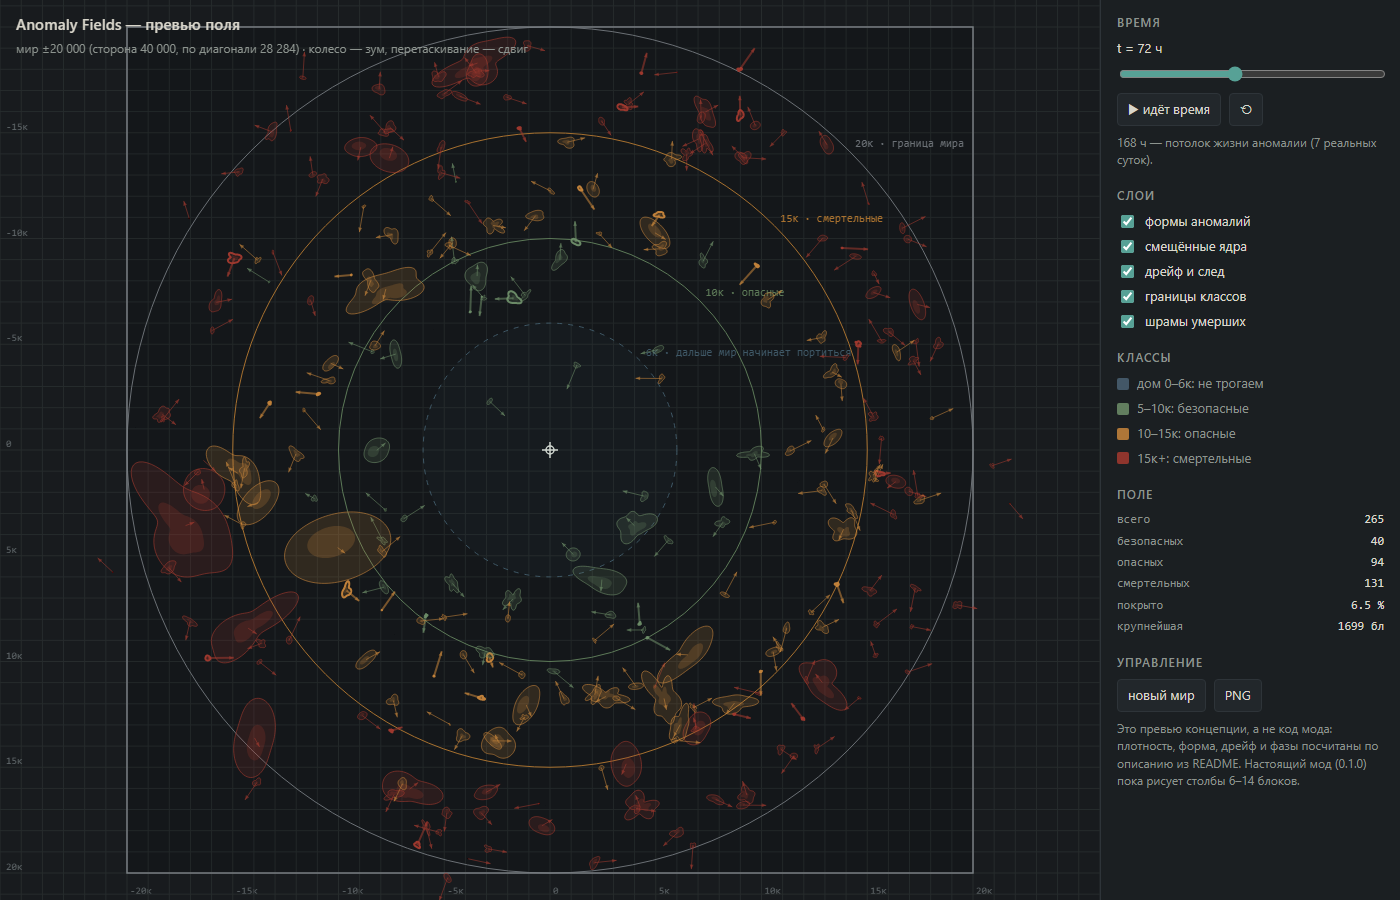
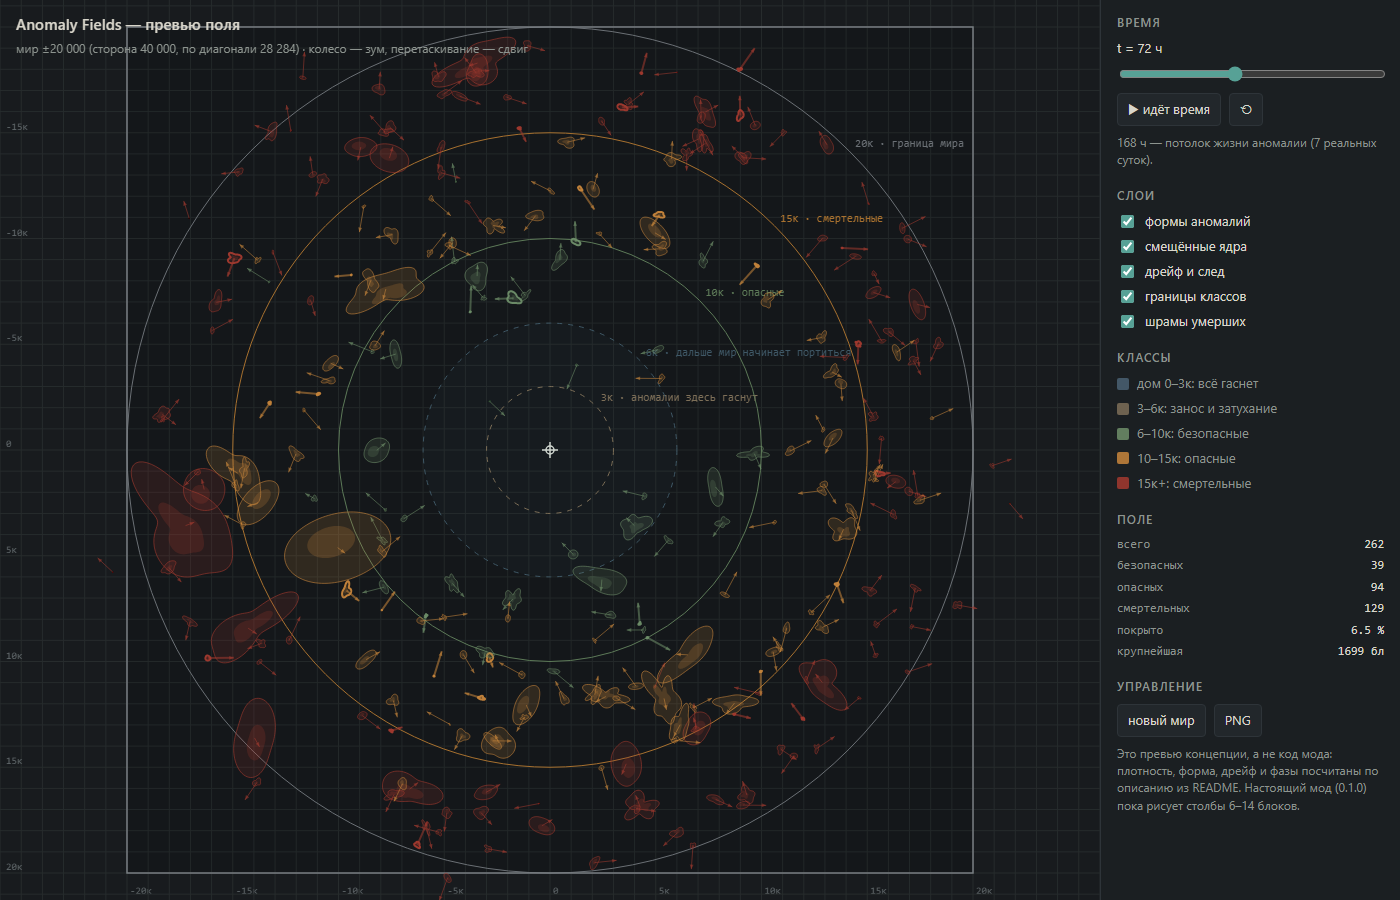
Anomalies dissipate inside 3k: requirement, config keys, preview implements suppression and no scars

Changed region(s): [[0.7986, 0.4044, 0.9829, 0.9022], [0.9521, 0.5911, 1.0, 0.7467], [0.4607, 0.4356, 0.5221, 0.4667]]

diff --git a/preview/anomalies-preview.html b/preview/anomalies-preview.html
@@ -82,8 +82,9 @@
 
     <h2>Классы</h2>
     <div class="legend">
-      <div><span class="sw" style="background:var(--home)"></span>дом 0–6к: не трогаем</div>
-      <div><span class="sw" style="background:var(--safe)"></span>5–10к: безопасные</div>
+      <div><span class="sw" style="background:var(--home)"></span>дом 0–3к: всё гаснет</div>
+      <div><span class="sw" style="background:#7d6f58"></span>3–6к: занос и затухание</div>
+      <div><span class="sw" style="background:var(--safe)"></span>6–10к: безопасные</div>
       <div><span class="sw" style="background:var(--danger)"></span>10–15к: опасные</div>
       <div><span class="sw" style="background:var(--deadly)"></span>15к+: смертельные</div>
     </div>
@@ -102,10 +103,19 @@
 
 // ---------- модель мира ----------
 const WORLD_R = 20000;
-const RING_HOME = 6000;     // до 6к ничего не трогаем
+const RING_DISSIPATE = 3000; // ближе 3к аномалия активно рассеивается
+const RING_HOME = 6000;     // до 6к ничего не рождается и не разрушается
 const RING_SAFE = 10000;    // 6–10к безопасные
 const RING_DANGER = 15000;  // 10–15к опасные
 const MAX_LIFE_H = 168;     // 7 реальных суток
+
+// подавление у центра: 3000 → 0, 6000 → 1, между ними плавно
+function suppressFactor(x, z) {
+  const d = Math.hypot(x, z);
+  if (d >= RING_HOME) return 1;
+  const k = (d - RING_DISSIPATE) / (RING_HOME - RING_DISSIPATE);
+  return Math.max(0, Math.min(1, k));
+}
 
 const CLASS = {
   home:   { key: "home",   name: "дом",        color: "#4a6273" },
@@ -230,13 +240,12 @@ function stateAt(a, t) {
   if (age < 0 || age > a.life) return null;
   const hours = age;
   const dir = a.dir + a.curve * hours;
-  return {
-    x: a.x0 + Math.cos(dir) * a.speed * hours,
-    z: a.z0 + Math.sin(dir) * a.speed * hours,
-    radius: radiusAt(a, t),
-    age,
-    dir
-  };
+  const x = a.x0 + Math.cos(dir) * a.speed * hours;
+  const z = a.z0 + Math.sin(dir) * a.speed * hours;
+  // у центра аномалия гаснет, а не просто «не появляется»
+  const radius = radiusAt(a, t) * suppressFactor(x, z);
+  if (radius < 5) return null;
+  return { x, z, radius, age, dir };
 }
 
 // ---------- canvas ----------
@@ -330,6 +339,7 @@ function draw() {
 
   drawGrid();
   if (state.show.rings) {
+    drawRing(RING_DISSIPATE, "#7d6f58", "3к · аномалии здесь гаснут", true);
     drawRing(RING_HOME, "#3f5866", "6к · дальше мир начинает портиться", true);
     drawRing(RING_SAFE, "#5d7a58", "10к · опасные");
     drawRing(RING_DANGER, "#a8712f", "15к · смертельные");
@@ -407,6 +417,8 @@ function drawScars() {
     if (since > 24) continue; // шрам живёт часы, дальше не рисуем
     const st = stateAt(a, dead - 0.001);
     if (!st) continue;
+    // у самого центра шрамов не остаётся — дом должен выглядеть целым
+    if (Math.hypot(st.x, st.z) < RING_DISSIPATE) continue;
     ctx.save();
     ctx.setLineDash([3, 5]);
     ctx.strokeStyle = withAlpha(a.cls.color, 0.35 * (1 - since / 24));
